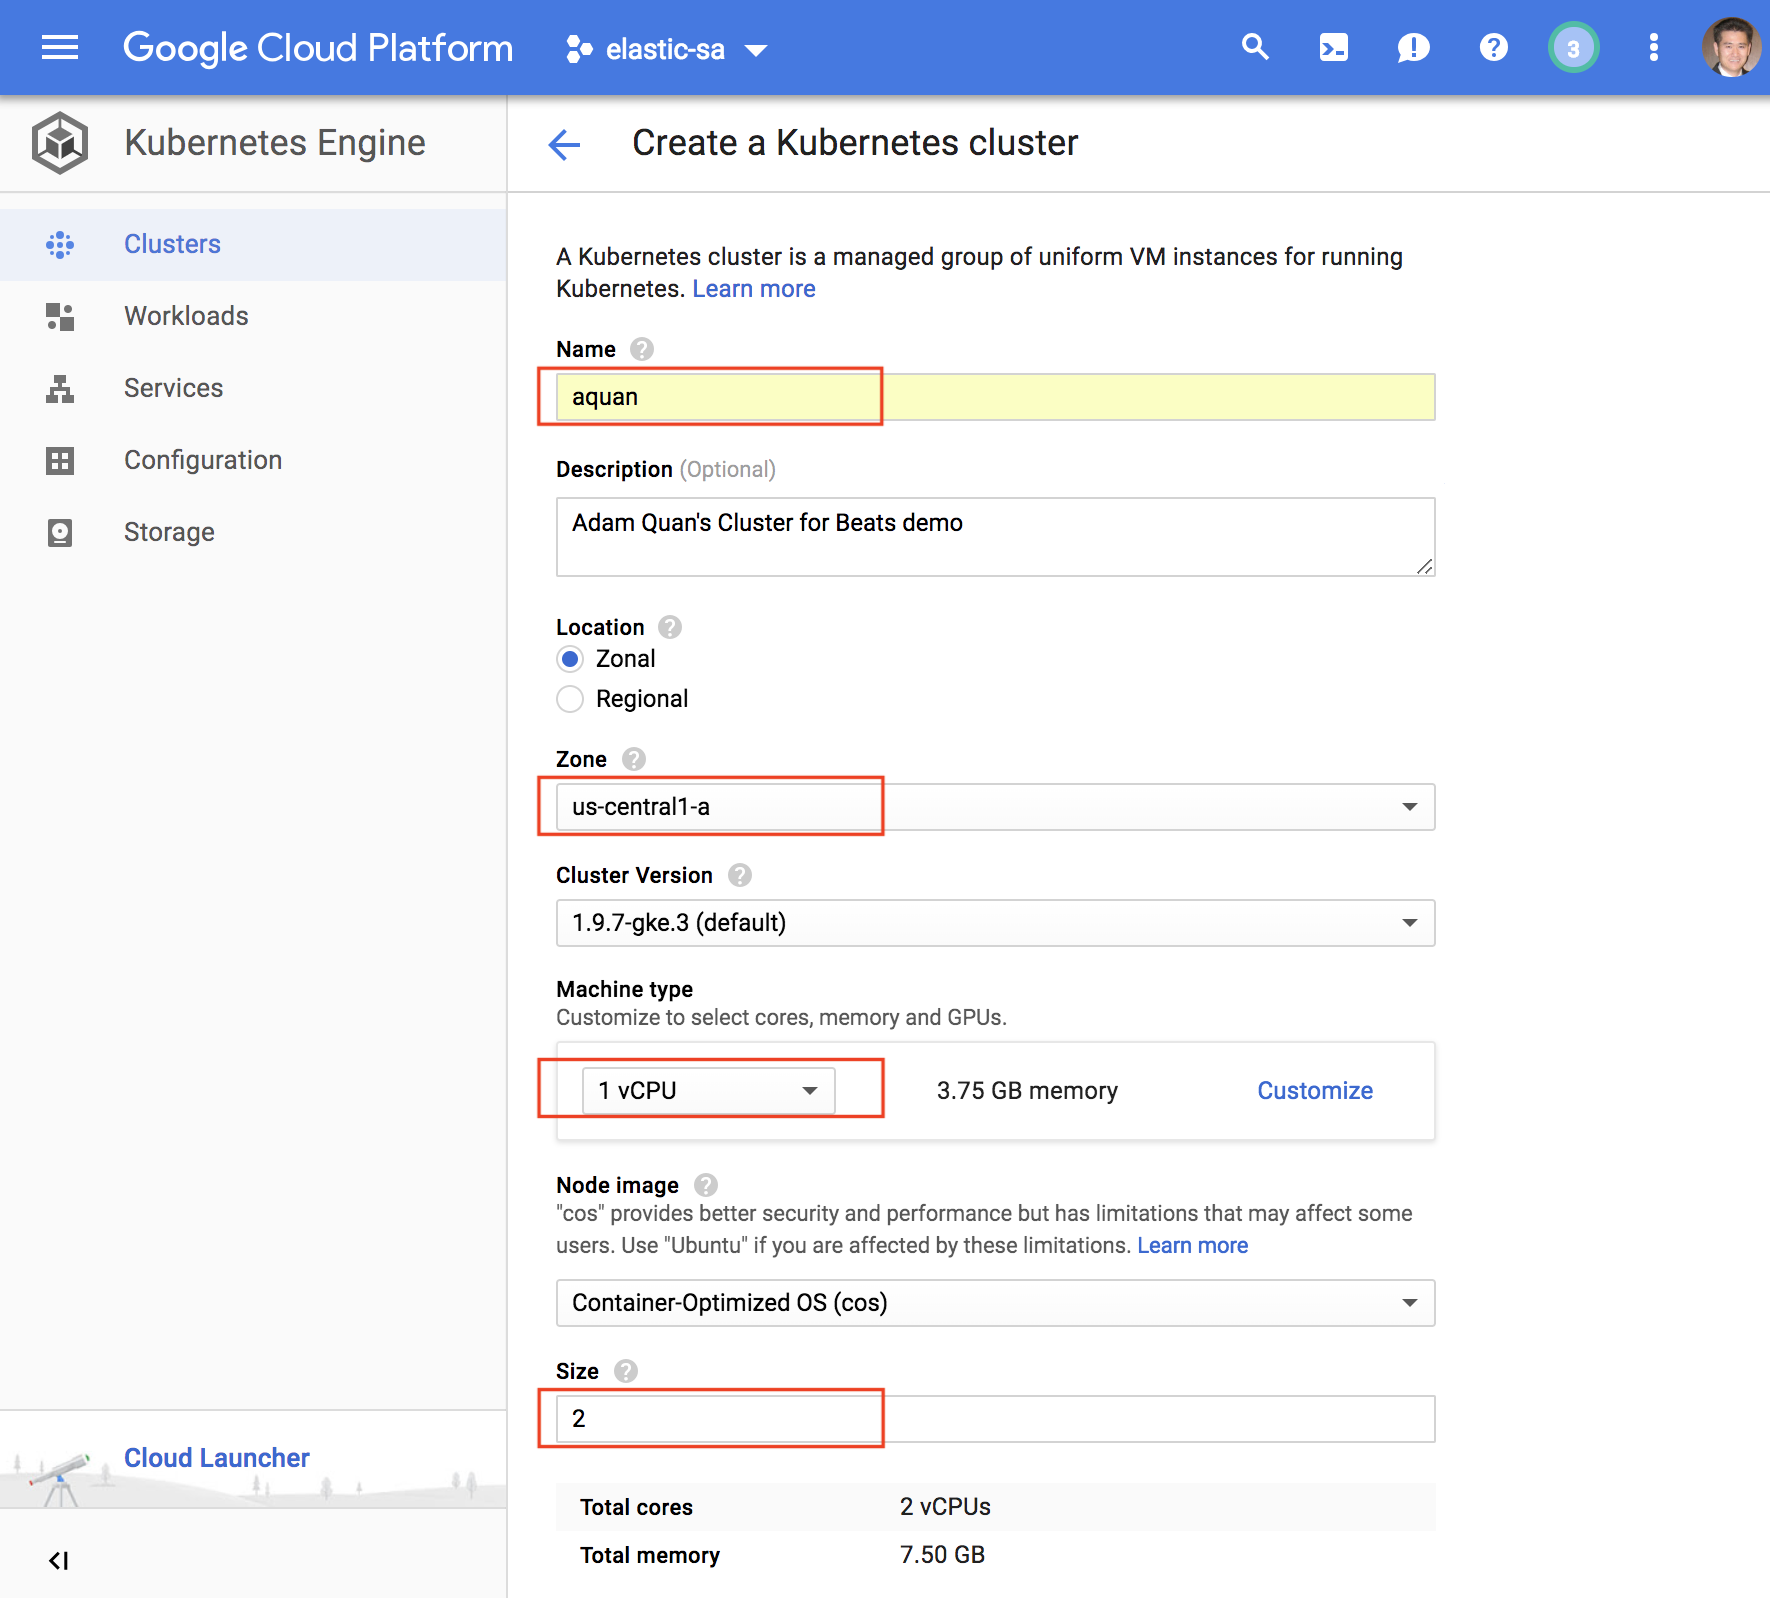
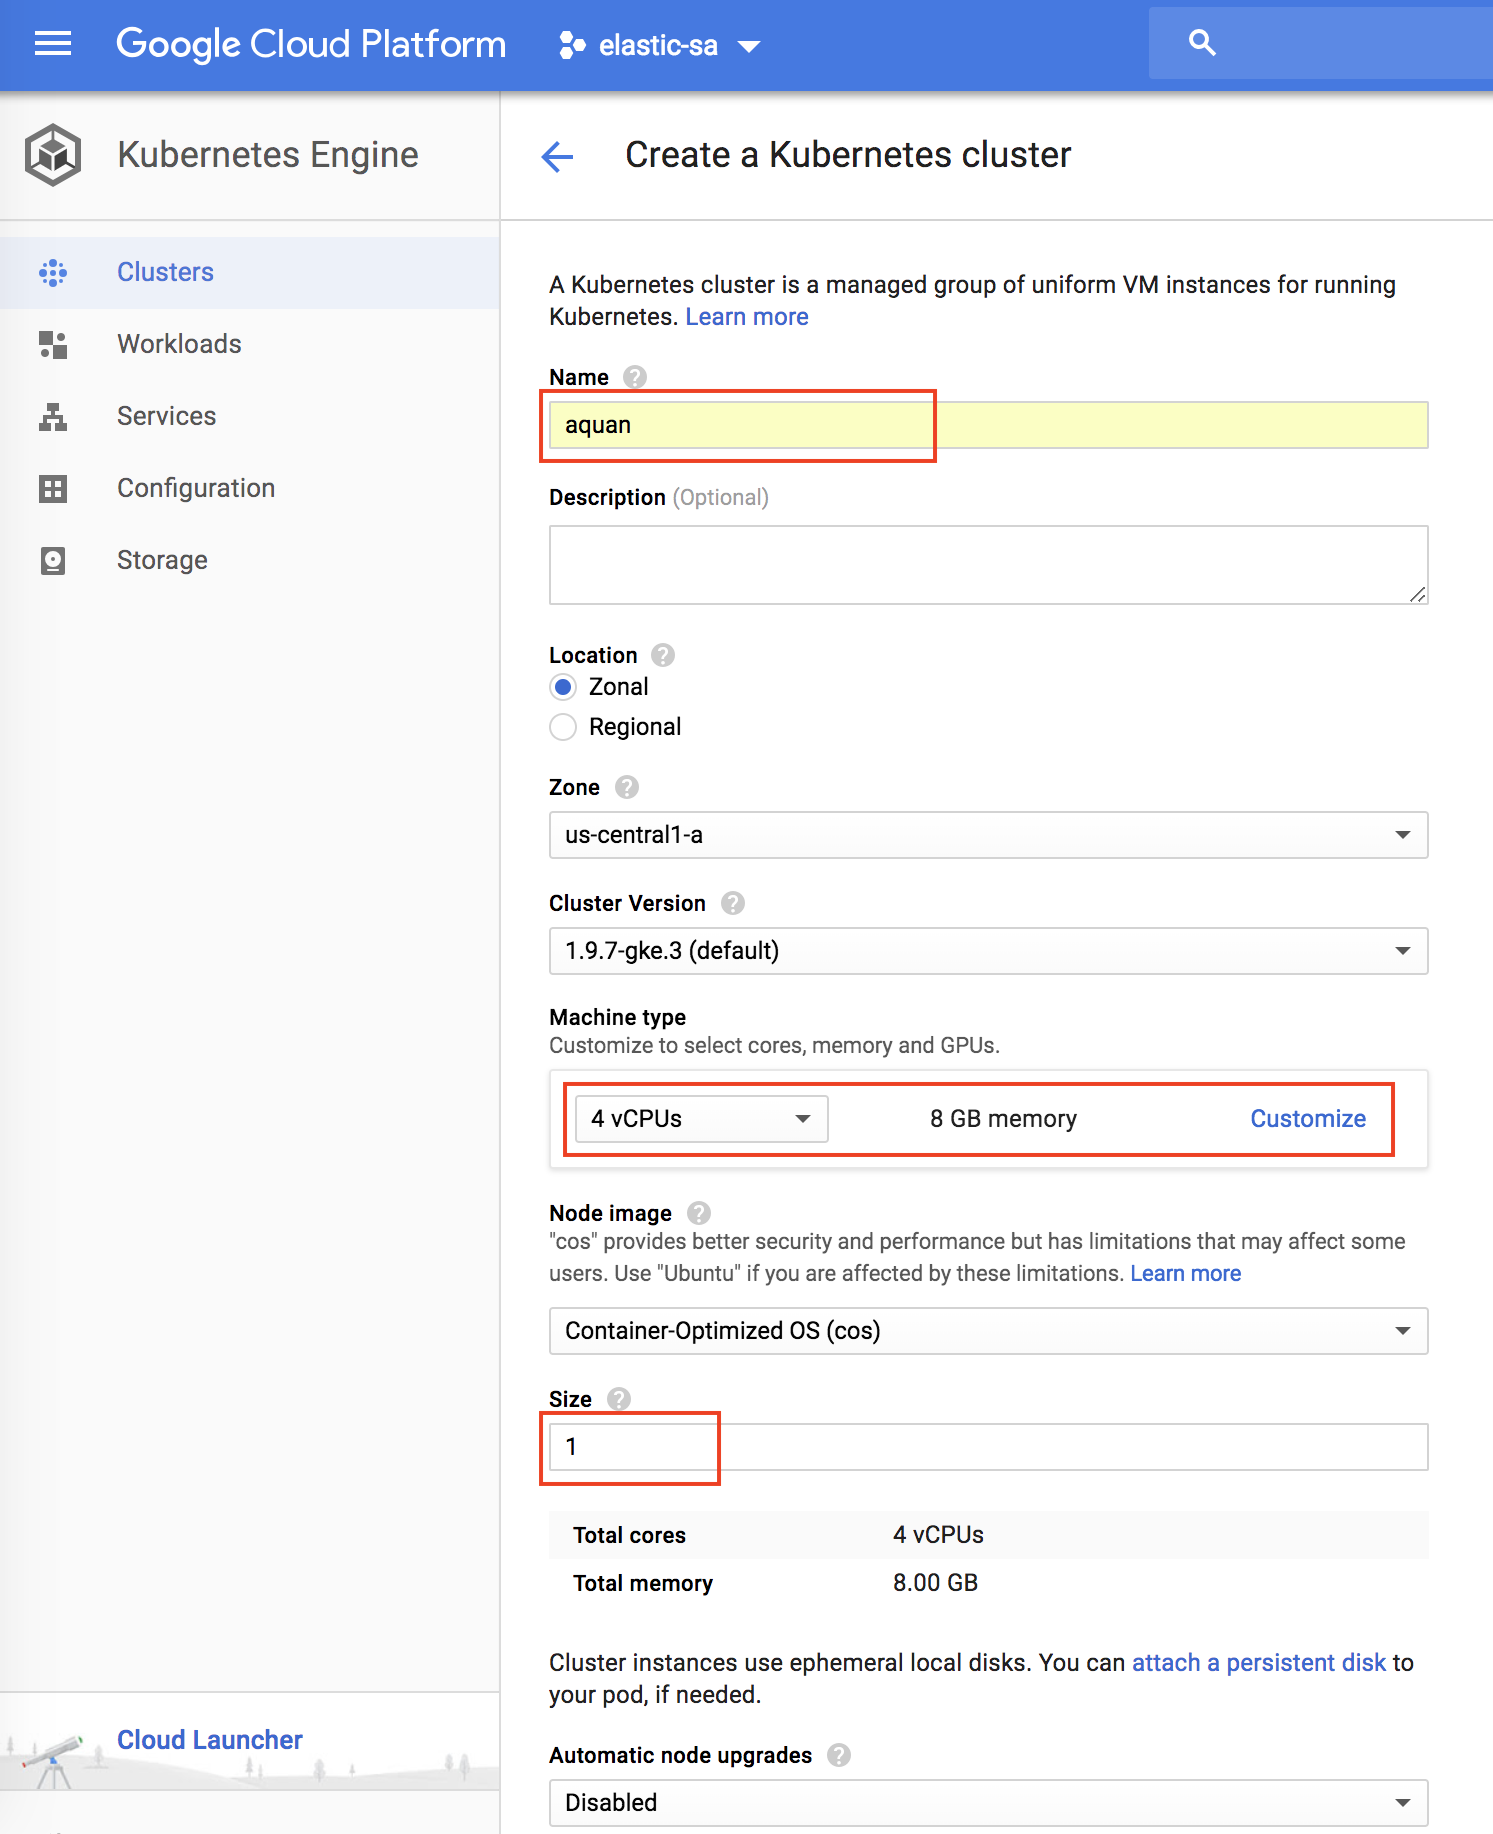
Added screenshots for GCP

diff --git a/GCP/README.md b/GCP/README.md
@@ -3,9 +3,11 @@
 1. Create a Kubernetes cluster in GCP using your GCP account. See screenshots below:
 
 Go to the "Kuberentes Engine" page, click on "CREATE CLUSTER":
+
 ![Kubernetes Cluster](images/k8s-1.png "Kubernetes Cluster")
 
-Give your cluster a name, take the defaults but change the cluster size to "2" to reduce cost. Click on "Create". Your cluster should be ready in a few minutes.
+Give your cluster a name. Configure your "Machine Type" as "4vCPUs, 8GB of memory". You will have to use the customize option to be able to do this. 2vCPUs also works but does not perform well. Change the cluster size to "1" to reduce cost. Click on "Create". Your 1-node cluster should be ready in a few minutes.
+
 ![Kubernetes Cluster](images/k8s-2.png "Kubernetes Cluster")
 
 2. Install Googl Cloud SDK by following this documentation: https://cloud.google.com/sdk/install
@@ -30,8 +32,49 @@ kubectl create clusterrolebinding adam.quan-cluster-admin-binding --clusterrole=
 echo -n 'STRING-TO-ENCODE' | base64
 ```
 
-6. Deploy everyting using the following command. You are good to go!
+6. Deploy everyting using the following command. Wait a few minutes for all the deployments to be done.
 
 ```
 kubectl apply -f .
 ```
+
+7. Go to "Workloads" from your GKE console, you should see the list of deployments. You can get ride of the system filter to see all deployments.
+
+![Kubernetes Cluster](images/k8s-3.png "Kubernetes Cluster")
+
+This is a list of all of my deployments without the system filter. Make sure you see everthing is up running and healthy.
+
+![Kubernetes Cluster](images/k8s-4.png "Kubernetes Cluster")
+
+8. Go to "Services", and click on the icon next to the IP of the nginx service, the application web page should be open.
+
+![Kubernetes Cluster](images/k8s-5.png "Kubernetes Cluster")
+
+Here is how the application look like. You can click on "add a new question" link to add a new question, which will be saved into the mysql database.
+
+![Kubernetes Cluster](images/k8s-6.png "Kubernetes Cluster")
+
+Fill in a question and your name and click on submit. This will generate some traffic. Feel free to add more questions and click around.
+
+![Kubernetes Cluster](images/k8s-7.png "Kubernetes Cluster")
+
+9. Go to your Elastic Cloud Kibana console. Open the "Metricbeat Kuberenetes" dashboard. You should see something like this.
+
+![Kubernetes Cluster](images/k8s-8.png "Kubernetes Cluster")
+
+Feel free to explore other dashboards by searching them.
+
+![Kubernetes Cluster](images/k8s-9.png "Kubernetes Cluster")
+
+Here is the "Filebeat MySQL" dashboard.
+
+![Kubernetes Cluster](images/k8s-10.png "Kubernetes Cluster")
+
+Here is the "APM Transaction" dashboard.
+
+![Kubernetes Cluster](images/k8s-11.png "Kubernetes Cluster")
+
+Keep in mind that we do not have APM in the cloud yet. So, you do not see the APM UI from Kibana. However, if you are sending all these data to a local 6.3 cluster, you will have the APM UI.
+
+
+
